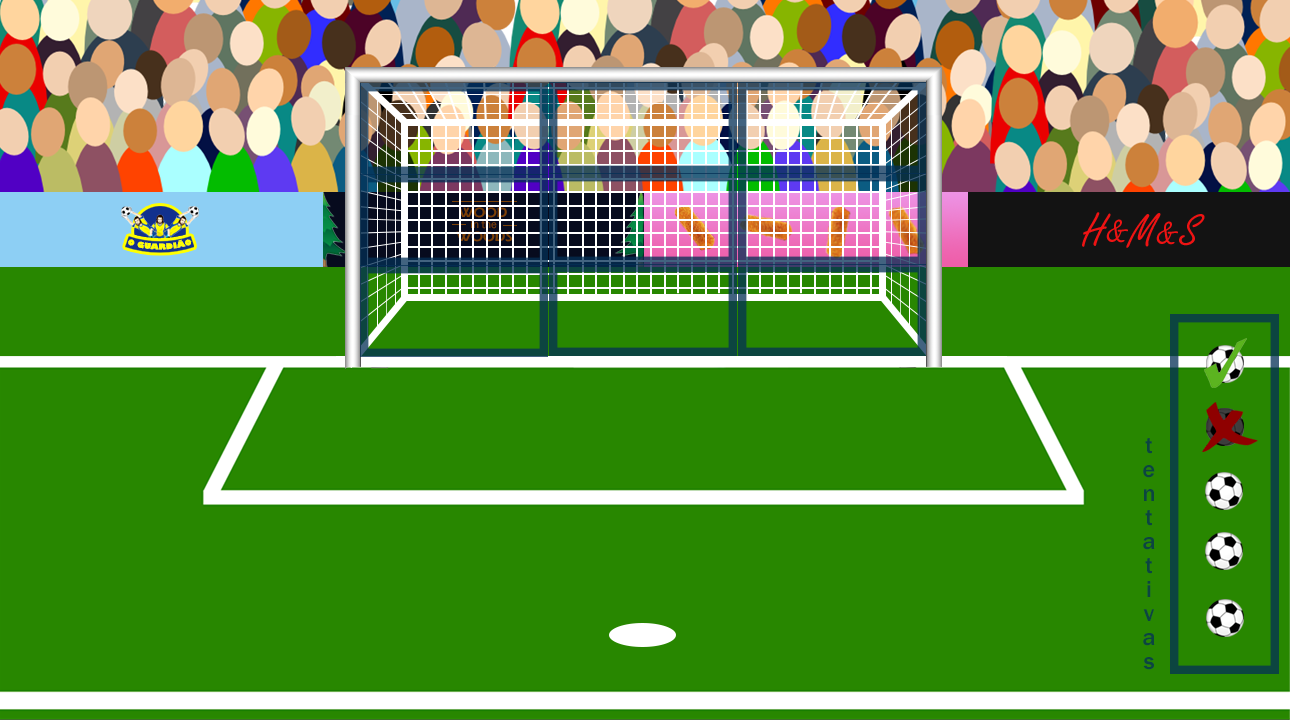
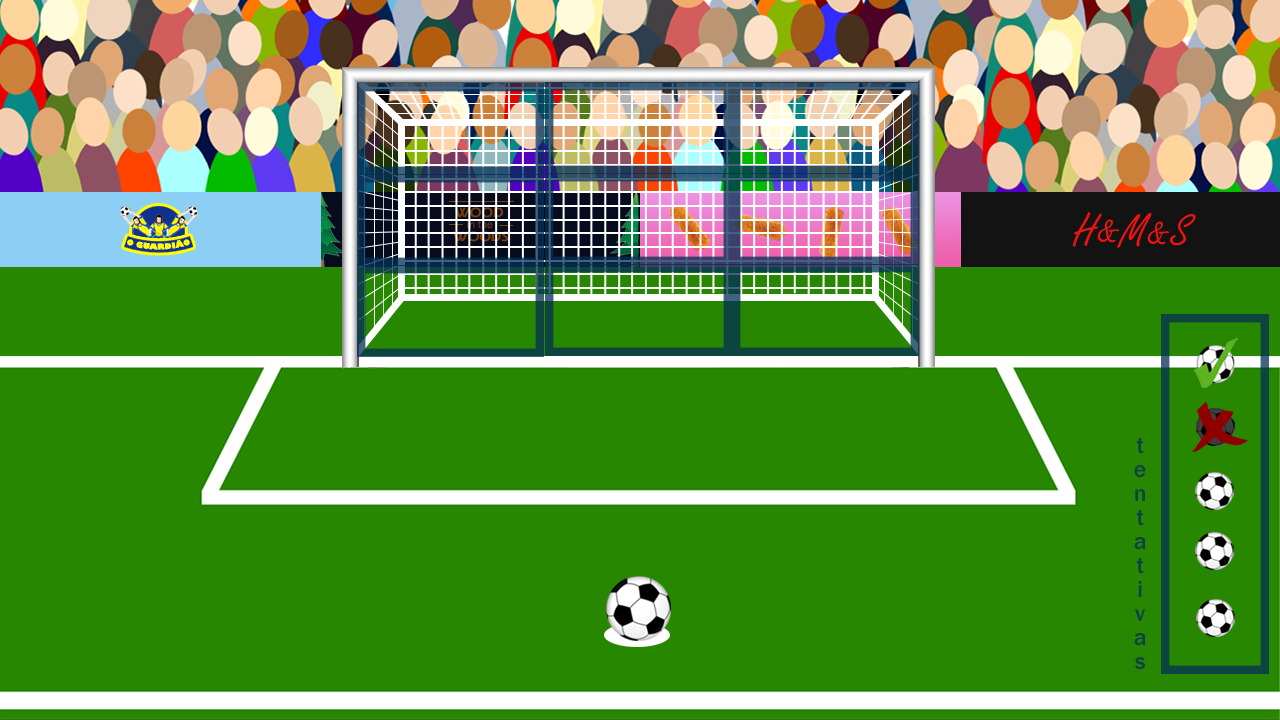
Updated mainGame.js
Criei Meshes

Changed region(s): [[0.4688, 0.7944, 0.5312, 0.8861], [0.125, 0.275, 0.1562, 0.3361], [0.8438, 0.3056, 0.875, 0.3361]]

diff --git a/assets/common/js/mainGame.js b/assets/common/js/mainGame.js
@@ -1,0 +1,48 @@
+// Areas de clique
+ctx.beginPath();
+
+// Baliza
+// Toda
+ctx.beginPath();
+ctx.fillStyle = "black";
+ctx.fillRect(357, 81, 562, 287);
+
+// Quadradoes individuais
+ctx.fillStyle = "red";
+ctx.fillRect(357, 81, 189, 97); // Quadrado 1
+ctx.fillStyle = "blue";
+ctx.fillRect(357, 176, 189, 97); // Quadrado 4
+ctx.fillStyle = "yellow";
+ctx.fillRect(357, 271, 189, 97); // Quadrado 7
+ctx.fillStyle = "yellow";
+ctx.fillRect(544, 81, 189, 97); // Quadrado 2
+ctx.fillStyle = "red";
+ctx.fillRect(544, 176, 189, 97); // Quadrado 5
+ctx.fillStyle = "blue";
+ctx.fillRect(544, 271, 189, 97); // Quadrado 8
+ctx.fillStyle = "red";
+ctx.fillRect(731, 81, 189, 97); // Quadrado 3
+ctx.fillStyle = "blue";
+ctx.fillRect(731, 176, 189, 97); // Quadrado 6
+ctx.fillStyle = "yellow";
+ctx.fillRect(731, 271, 189, 97); // Quadrado 9
+
+// Bola: X:639 Y:609
+ctx.fillStyle = "black";
+ctx.arc(639, 609, 33, 0, Math.PI * 2);
+ctx.fill();
+
+// Plateia
+ctx.fillStyle = "black";
+ctx.fillRect(0, 0, 1280, 193);
+
+// Resto do Campo
+
+/*
+
+
+// Plateia
+
+// Resto do campo
+
+*/
